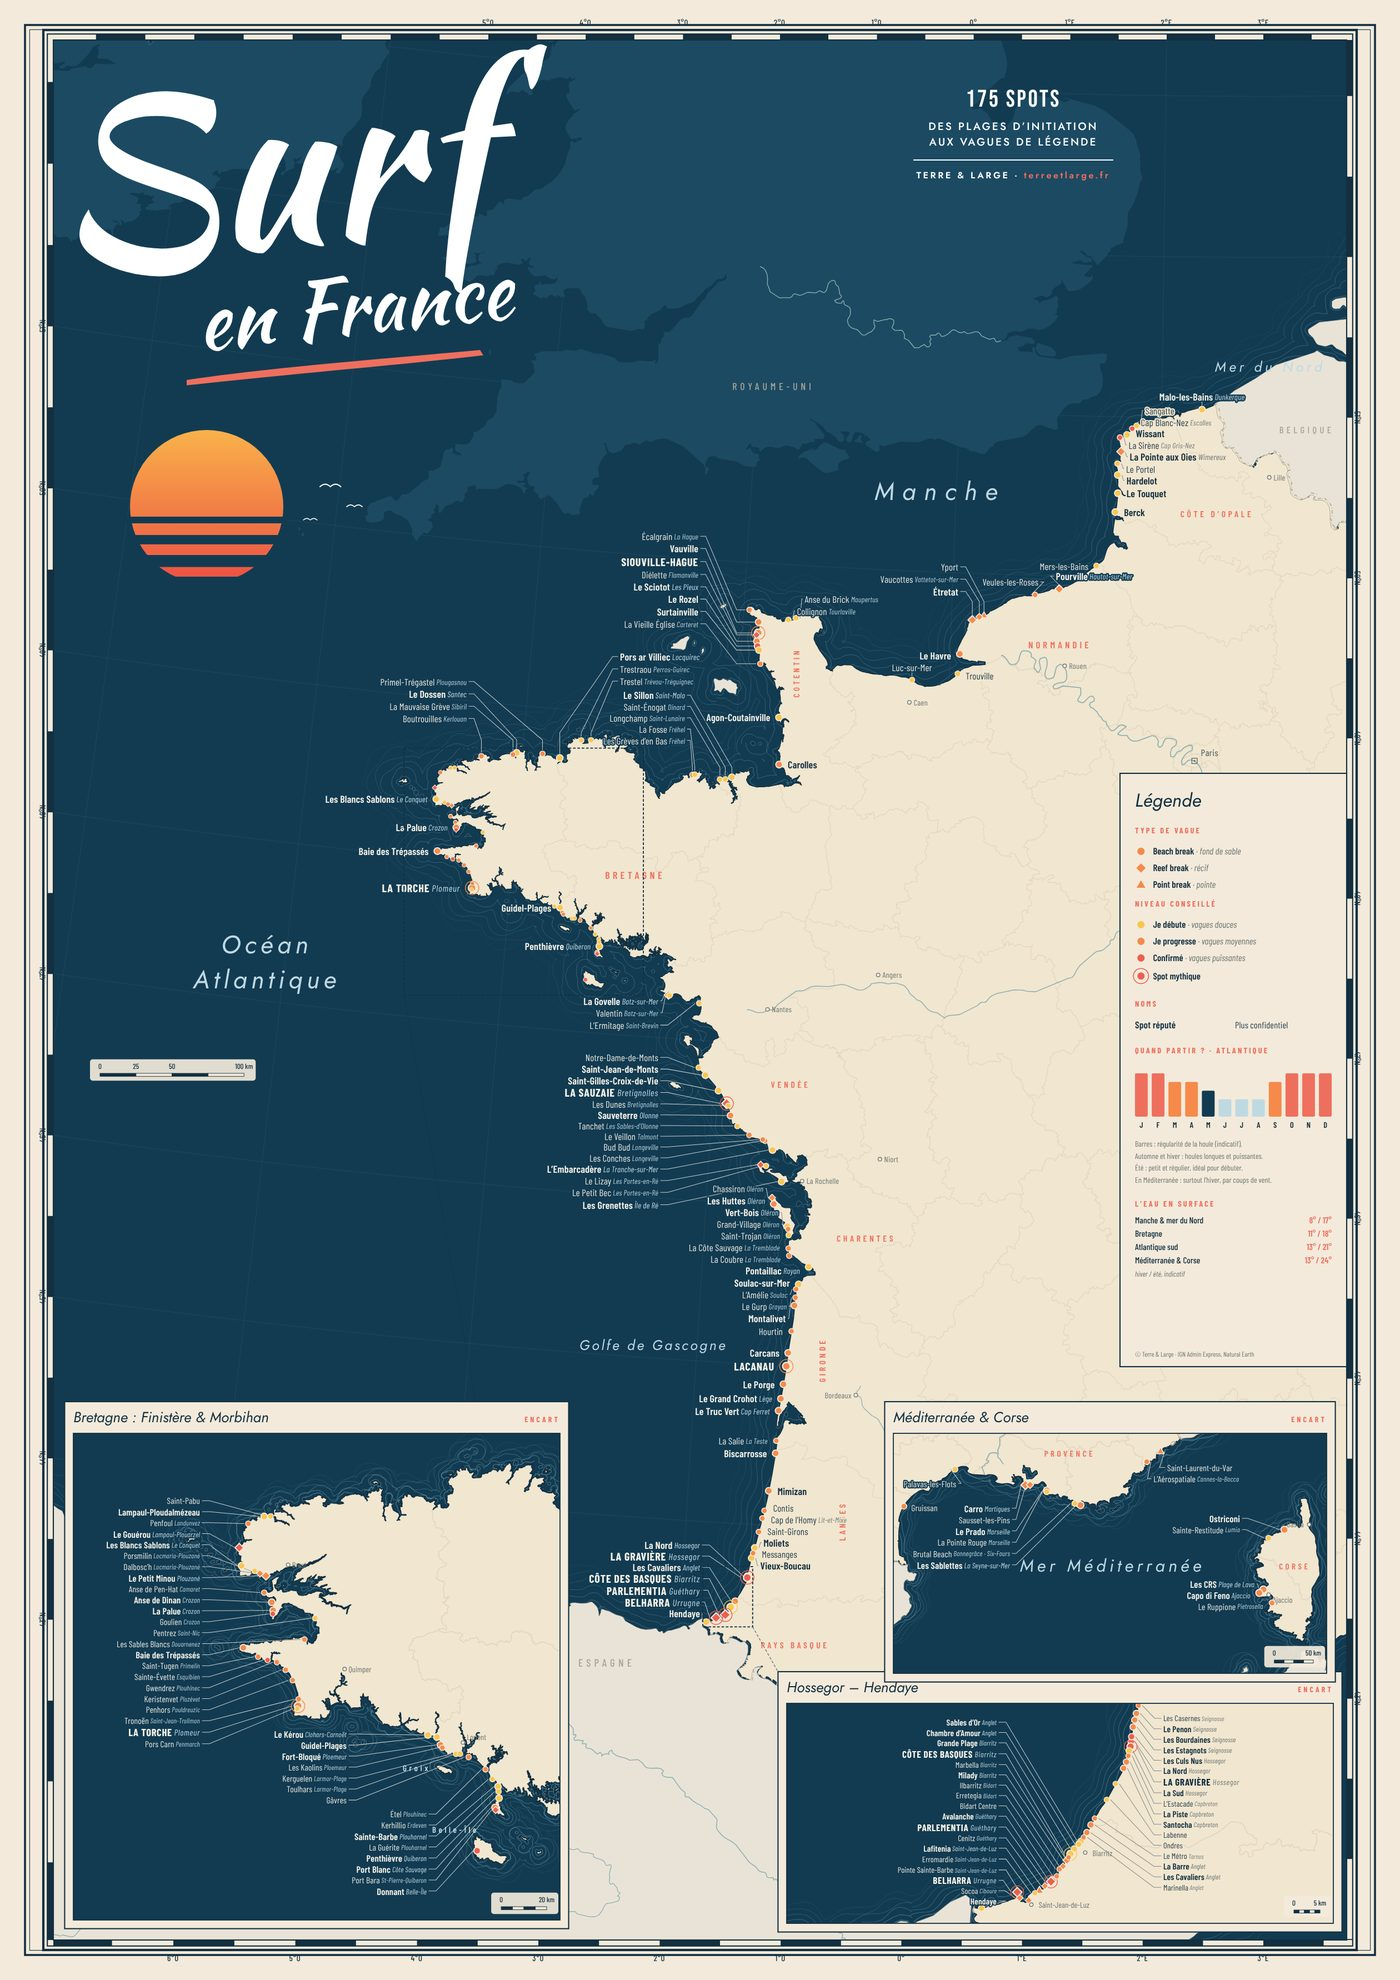
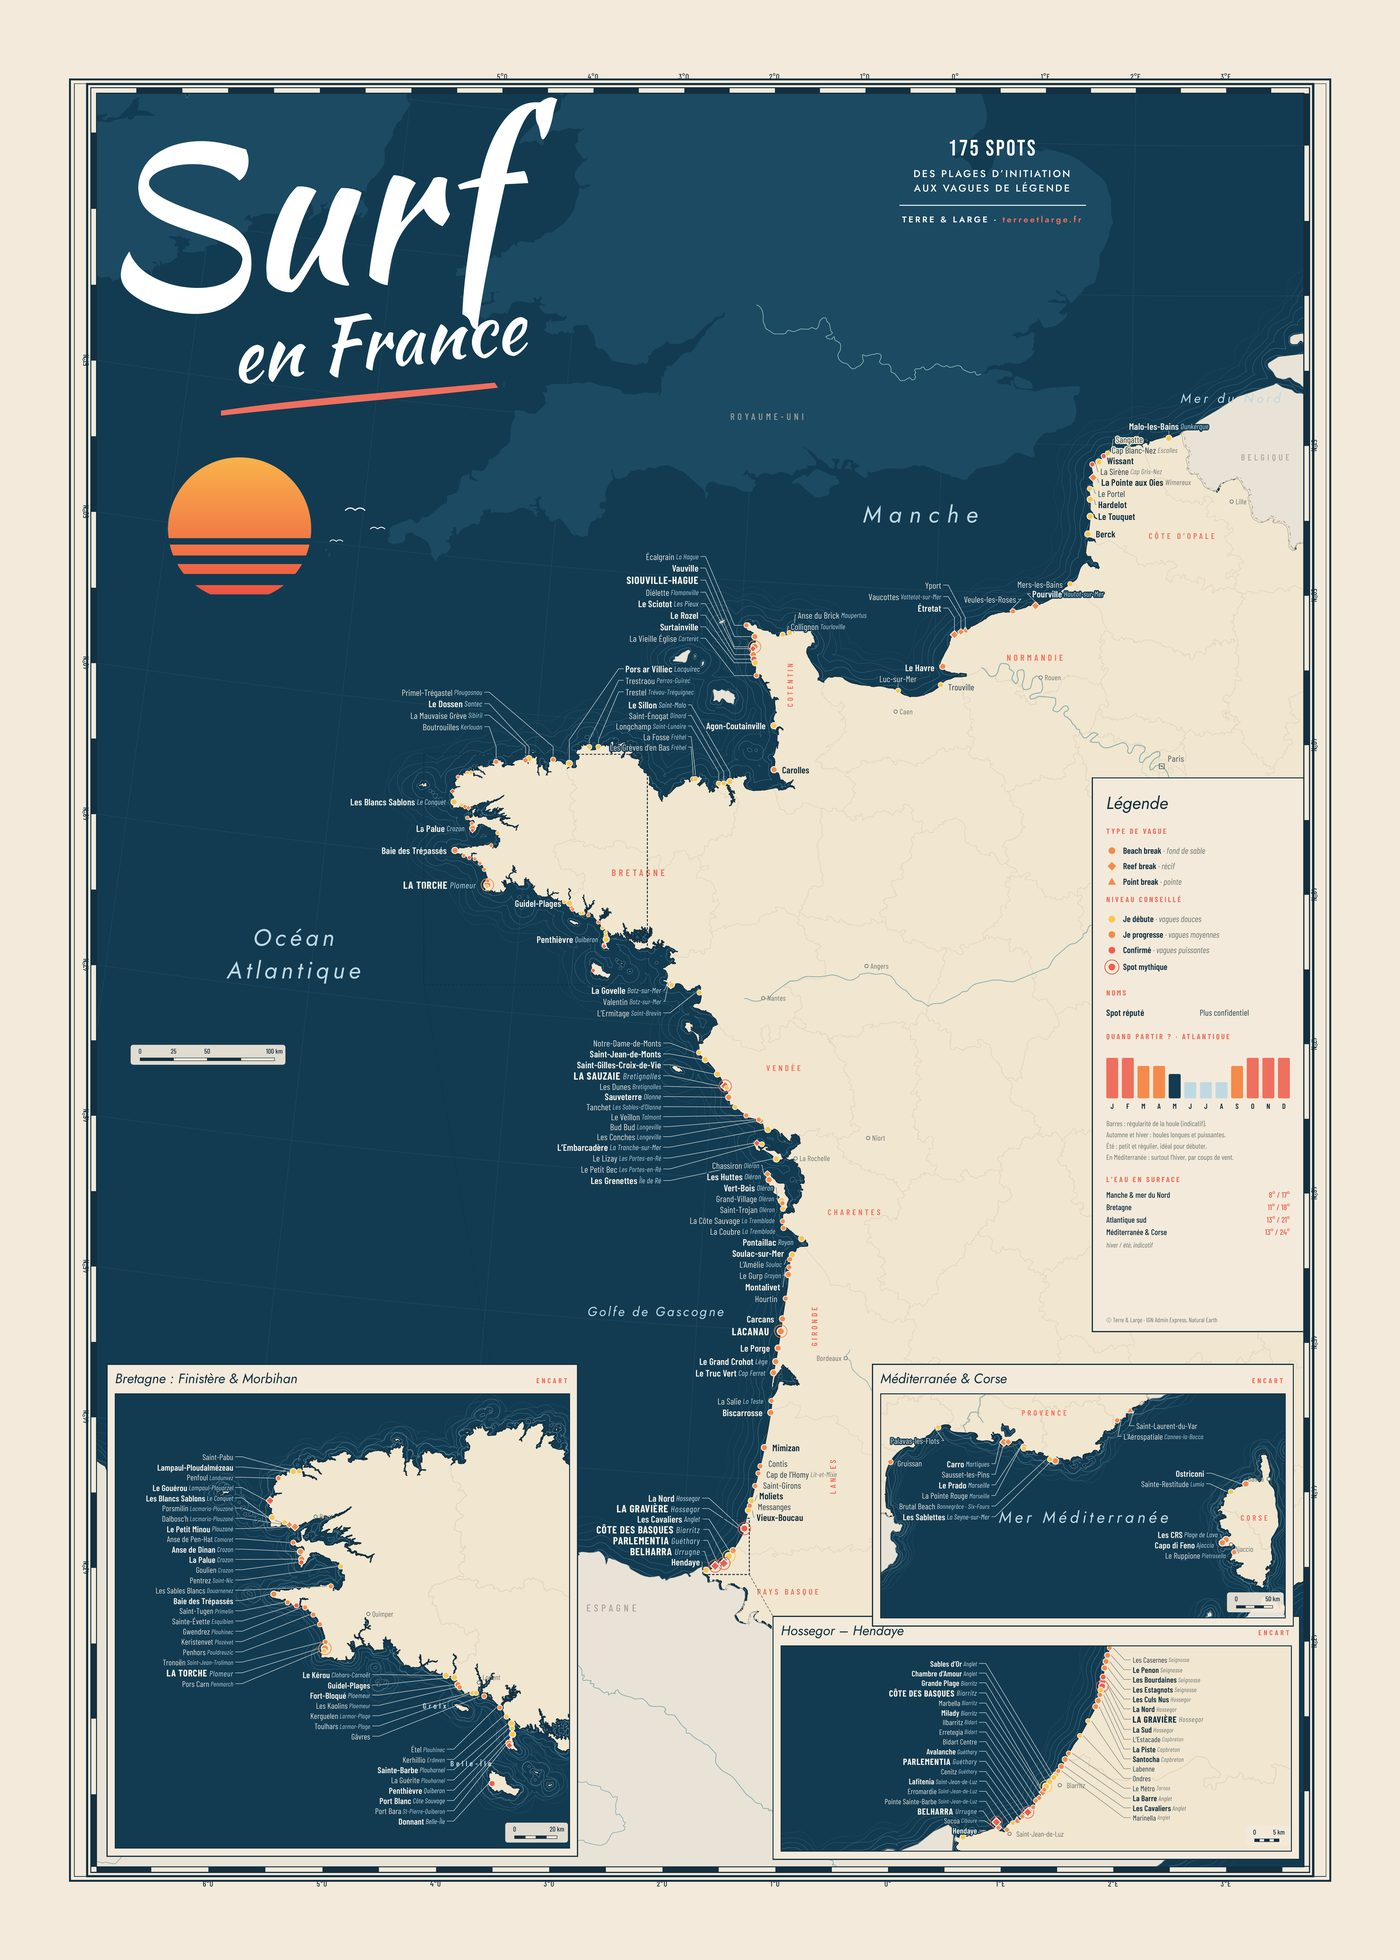
Affiche v13.2 (bordure crème 2,5 cm, ratio 5:7)
Claude-Session: https://claude.ai/code/session_01VVLsiKYjuoqBuVZimcnTQv

Changed region(s): [[0.0, 0.0, 0.9829, 0.9959], [0.1536, 0.4668, 0.2457, 0.498], [0.5221, 0.1867, 0.5529, 0.2179]]

diff --git a/index.html b/index.html
@@ -6,7 +6,7 @@
 <title>Terre &amp; Large · Affiche Surf en France, 175 spots</title>
 <meta name="description" content="Surf en France : une carte-affiche de 175 spots de surf, de la Côte d'Opale au Pays basque, de la Bretagne à la Corse. Dessinée par Terre &amp; Large.">
 <link rel="canonical" href="https://terreetlarge.fr/">
-<link rel="icon" href="assets/favicon.svg?v=20261121" type="image/svg+xml">
+<link rel="icon" href="assets/favicon.svg?v=20261121b" type="image/svg+xml">
 <meta property="og:type" content="website">
 <meta property="og:title" content="Surf en France · Terre &amp; Large">
 <meta property="og:description" content="175 spots de surf sur une seule affiche, de la Côte d'Opale à la Corse.">
@@ -15,14 +15,14 @@
 <meta name="theme-color" content="#123B52">
 <link rel="preload" href="assets/fonts/jost-latin-wght-normal.woff2" as="font" type="font/woff2" crossorigin>
 <link rel="preload" href="assets/fonts/kaushan-script-latin-400-normal.woff2" as="font" type="font/woff2" crossorigin>
-<link rel="stylesheet" href="assets/style.css?v=20261121">
+<link rel="stylesheet" href="assets/style.css?v=20261121b">
 </head>
 <body>
 
 <header class="top">
   <div class="wrap">
     <a class="logo" href="./" aria-label="Terre &amp; Large, accueil">
-      <img src="assets/favicon.svg?v=20261121" alt="" width="26" height="26">Terre &amp; Large
+      <img src="assets/favicon.svg?v=20261121b" alt="" width="26" height="26">Terre &amp; Large
     </a>
     <nav class="nav" aria-label="Menu">
       <a href="#affiche">L’affiche</a>
@@ -52,7 +52,7 @@
       </div>
       <div class="visuel">
         <div class="cadre">
-          <img src="assets/img/affiche-surf-en-france.jpg?v=20261121" width="700" height="990"
+          <img src="assets/img/affiche-surf-en-france.jpg?v=20261121b" width="700" height="980"
                alt="Affiche Surf en France : la France couleur sable sur un océan bleu nuit, titre au pinceau, soleil couchant, 175 spots de surf et trois encarts régionaux.">
         </div>
       </div>
@@ -90,12 +90,12 @@
       </div>
       <div class="details">
         <figure>
-          <img src="assets/img/detail-atlantique.jpg?v=20261121" width="840" height="520" loading="lazy"
+          <img src="assets/img/detail-atlantique.jpg?v=20261121b" width="840" height="520" loading="lazy"
                alt="Détail de la côte atlantique, de la Vendée à l’île d’Oléron, avec les noms des spots sur l’océan bleu nuit.">
           <figcaption>Détail : de la Vendée à l’île d’Oléron</figcaption>
         </figure>
         <figure>
-          <img src="assets/img/detail-titre.jpg?v=20261121" width="1260" height="300" loading="lazy"
+          <img src="assets/img/detail-titre.jpg?v=20261121b" width="1260" height="300" loading="lazy"
                alt="Titre de l’affiche : Surf en France, au pinceau, avec un soleil couchant.">
           <figcaption>Le titre, au pinceau</figcaption>
         </figure>

diff --git a/mentions-legales.html b/mentions-legales.html
@@ -5,13 +5,13 @@
 <meta name="viewport" content="width=device-width,initial-scale=1">
 <title>Mentions légales · Terre &amp; Large</title>
 <meta name="robots" content="noindex">
-<link rel="icon" href="/assets/favicon.svg?v=20261121" type="image/svg+xml">
-<link rel="stylesheet" href="/assets/style.css?v=20261121">
+<link rel="icon" href="/assets/favicon.svg?v=20261121b" type="image/svg+xml">
+<link rel="stylesheet" href="/assets/style.css?v=20261121b">
 </head>
 <body>
 <header class="top">
   <div class="wrap">
-    <a class="logo" href="/" aria-label="Terre &amp; Large, accueil"><img src="/assets/favicon.svg?v=20261121" alt="" width="26" height="26">Terre &amp; Large</a>
+    <a class="logo" href="/" aria-label="Terre &amp; Large, accueil"><img src="/assets/favicon.svg?v=20261121b" alt="" width="26" height="26">Terre &amp; Large</a>
     <nav class="nav" aria-label="Menu"><a href="/#affiche">L’affiche</a><a href="/#contact">Contact</a></nav>
   </div>
 </header>

diff --git a/404.html b/404.html
@@ -5,13 +5,13 @@
 <meta name="viewport" content="width=device-width,initial-scale=1">
 <title>Page introuvable · Terre &amp; Large</title>
 <meta name="robots" content="noindex">
-<link rel="icon" href="/assets/favicon.svg?v=20261121" type="image/svg+xml">
-<link rel="stylesheet" href="/assets/style.css?v=20261121">
+<link rel="icon" href="/assets/favicon.svg?v=20261121b" type="image/svg+xml">
+<link rel="stylesheet" href="/assets/style.css?v=20261121b">
 </head>
 <body>
 <header class="top">
   <div class="wrap">
-    <a class="logo" href="/" aria-label="Terre &amp; Large, accueil"><img src="/assets/favicon.svg?v=20261121" alt="" width="26" height="26">Terre &amp; Large</a>
+    <a class="logo" href="/" aria-label="Terre &amp; Large, accueil"><img src="/assets/favicon.svg?v=20261121b" alt="" width="26" height="26">Terre &amp; Large</a>
     <nav class="nav" aria-label="Menu"><a href="/#affiche">L’affiche</a><a href="/#contact">Contact</a></nav>
   </div>
 </header>
